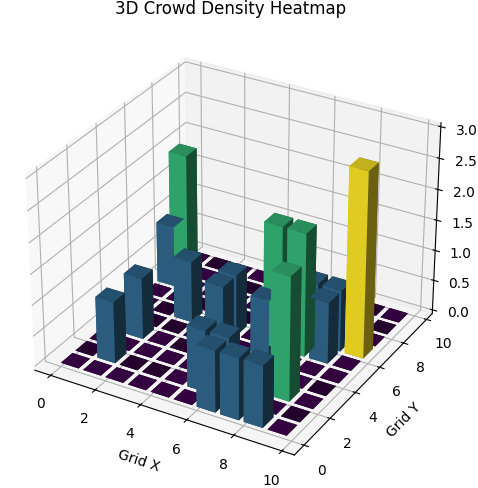
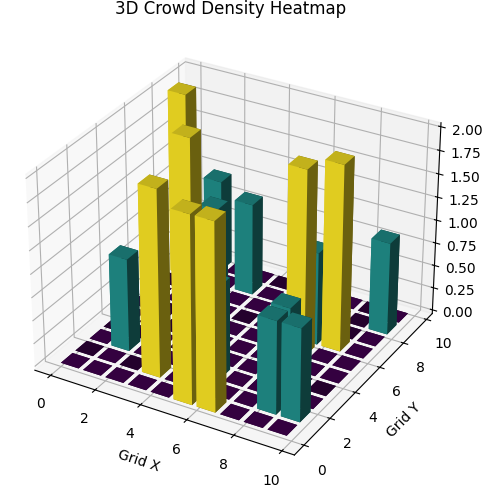
closing the project with adding segmentation on the video itself.

diff --git a/crowedAnalysis/croud_analysis.py b/crowedAnalysis/croud_analysis.py
@@ -1,98 +1,6 @@
-# from ultralytics import YOLO
-# import cv2
-# import numpy as np
-
-# # Load a pre-trained YOLOv8 model
-# model = YOLO('crowedAnalysis/yolov8n.pt')  # Use 'yolov8x.pt' for higher accuracy
-
-# video_path = r'C:\\Users\\PMLS\\Desktop\\Local Disk\\CV\\computer vision adv\\crowedAnalysis\\people.mp4'
-# cap = cv2.VideoCapture(video_path)
-
-# if not cap.isOpened():
-#     print("Error opening video stream or file")
-#     exit()
-
-# # Define grid size for heatmap
-# grid_size = 10
-# ret, first_frame = cap.read()
-# if not ret:
-#     print("Failed to read the first frame")
-#     exit()
-
-# height, width, _ = first_frame.shape
-# cell_height, cell_width = height // grid_size, width // grid_size
-
-# while cap.isOpened():
-#     ret, frame = cap.read()
-#     if not ret:
-#         break
-
-#     # Run detection
-#     results = model(frame)
-
-#     # Filter detections for 'person' class
-#     detections = results[0].boxes  # YOLO's detected objects
-#     person_detections = [box for box in detections if box.cls == 0]  # '0' is typically the 'person' class
-
-#     # Draw bounding boxes
-#     for box in person_detections:
-#         x1, y1, x2, y2 = map(int, box.xyxy[0])
-#         cv2.rectangle(frame, (x1, y1), (x2, y2), (0, 255, 0), 2)
-
-#     # Display count
-#     cv2.putText(frame, f"Count: {len(person_detections)}", (10, 50),
-#                 cv2.FONT_HERSHEY_SIMPLEX, 1, (255, 0, 0), 2, cv2.LINE_AA)
-
-#     # Generate density map
-#     density_map = np.zeros((grid_size, grid_size), dtype=int)
-#     for box in person_detections:
-#         x_center = (box.xyxy[0, 0] + box.xyxy[0, 2]) // 2
-#         y_center = (box.xyxy[0, 1] + box.xyxy[0, 3]) // 2
-#         cell_x = int(x_center // cell_width)
-#         cell_y = int(y_center // cell_height)
-#         if 0 <= cell_x < grid_size and 0 <= cell_y < grid_size:
-#             density_map[cell_y, cell_x] += 1
-
-#     # Create a color-coded heatmap
-#     heatmap = np.zeros((height, width, 3), dtype=np.uint8)
-#     for i in range(grid_size):
-#         for j in range(grid_size):
-#             density = density_map[i, j]
-#             if density > 5:  # High density
-#                 color = (0, 0, 255)  # Red
-#             elif density > 2:  # Medium density
-#                 color = (0, 255, 0)  # Green
-#             elif density > 0:  # Low density
-#                 color = (255, 0, 0)  # Blue
-#             else:  # No density
-#                 color = (0, 0, 0)  # Black
-
-#             # Draw patches for the grid cell
-#             x1, y1 = j * cell_width, i * cell_height
-#             x2, y2 = x1 + cell_width, y1 + cell_height
-#             cv2.rectangle(heatmap, (x1, y1), (x2, y2), color, -1)
-
-#     # Resize frames to equal widths for display
-#     resized_frame = cv2.resize(frame, (width // 2, height))
-#     resized_heatmap = cv2.resize(heatmap, (width // 2, height))
-
-#     # Concatenate video and heatmap
-#     combined_frame = cv2.hconcat([resized_frame, resized_heatmap])
-
-#     # Display combined frame
-#     cv2.imshow('Crowd Analysis & Heatmap', combined_frame)
-
-#     if cv2.waitKey(1) & 0xFF == ord('q'):
-#         break
-
-# cap.release()
-# cv2.destroyAllWindows()
-
 from ultralytics import YOLO
 import cv2
 import numpy as np
-import matplotlib.pyplot as plt
-from mpl_toolkits.mplot3d import Axes3D
 
 # Load a pre-trained YOLOv8 model
 model = YOLO('crowedAnalysis/yolov8n.pt')  # Use 'yolov8x.pt' for higher accuracy
@@ -114,6 +22,9 @@ if not ret:
 height, width, _ = first_frame.shape
 cell_height, cell_width = height // grid_size, width // grid_size
 
+# Define high-density threshold
+density_threshold = 3
+
 while cap.isOpened():
     ret, frame = cap.read()
     if not ret:
@@ -123,8 +34,16 @@ while cap.isOpened():
     results = model(frame)
 
     # Filter detections for 'person' class
-    detections = results[0].boxes  # YOLO's detected objects
-    person_detections = [box for box in detections if box.cls == 0]  # '0' is typically the 'person' class
+    detections = results[0].boxes
+    person_detections = [box for box in detections if box.cls == 0]
+
+    # Draw bounding boxes on the frame
+    for box in person_detections:
+        x1, y1, x2, y2 = map(int, box.xyxy[0])
+        confidence = box.conf[0]
+        cv2.rectangle(frame, (x1, y1), (x2, y2), (0, 255, 0), 2)
+        cv2.putText(frame, f'Person {confidence:.2f}', (x1, y1 - 10),
+                    cv2.FONT_HERSHEY_SIMPLEX, 0.5, (0, 255, 0), 2)
 
     # Generate density map
     density_map = np.zeros((grid_size, grid_size), dtype=int)
@@ -136,42 +55,29 @@ while cap.isOpened():
         if 0 <= cell_x < grid_size and 0 <= cell_y < grid_size:
             density_map[cell_y, cell_x] += 1
 
-    # Create a 3D heatmap
-    fig = plt.figure(figsize=(6, 6))
-    ax = fig.add_subplot(111, projection='3d')
+    # Overlay high-density areas on the video frame
+    for row in range(grid_size):
+        for col in range(grid_size):
+            density = density_map[row, col]
+            if density >= density_threshold:
+                # Calculate cell coordinates
+                start_x = col * cell_width
+                start_y = row * cell_height
+                end_x = start_x + cell_width
+                end_y = start_y + cell_height
 
-    # Prepare data for 3D plotting
-    x, y = np.meshgrid(np.arange(grid_size), np.arange(grid_size))
-    x, y = x.ravel(), y.ravel()
-    z = np.zeros_like(x)
-    dx = dy = 0.8  # Bar width
-    dz = density_map.ravel()
+                # Overlay a red transparent patch for high-density cells
+                overlay_color = (0, 0, 255)  # Red in BGR
+                alpha = 0.5  # Transparency level
+                sub_frame = frame[start_y:end_y, start_x:end_x]
+                overlay = np.full(sub_frame.shape, overlay_color, dtype=np.uint8)
+                cv2.addWeighted(overlay, alpha, sub_frame, 1 - alpha, 0, sub_frame)
 
-    # Plot the 3D bars
-    colors = plt.cm.viridis(dz / dz.max()) if dz.max() > 0 else 'gray'
-    ax.bar3d(x, y, z, dx, dy, dz, color=colors, shade=True)
-
-    ax.set_title('3D Crowd Density Heatmap')
-    ax.set_xlabel('Grid X')
-    ax.set_ylabel('Grid Y')
-    ax.set_zlabel('Density')
-
-    # Convert the plot to an image
-    plt.savefig("3d_heatmap_temp.png", bbox_inches='tight', pad_inches=0)
-    plt.close(fig)
-    heatmap_img = cv2.imread("3d_heatmap_temp.png")
-    heatmap_img = cv2.resize(heatmap_img, (width // 2, height))
-
-    # Combine video frame and heatmap into one window
-    combined_frame = np.zeros((height, width, 3), dtype=np.uint8)
-    combined_frame[:, :width // 2] = cv2.resize(frame, (width // 2, height))
-    combined_frame[:, width // 2:] = heatmap_img
-
-    cv2.imshow('Crowd Analysis (Video + 3D Heatmap)', combined_frame)
+    # Display the video frame with overlays
+    cv2.imshow('Crowd Analysis with High-Density Segmentation', frame)
 
     if cv2.waitKey(1) & 0xFF == ord('q'):
         break
 
 cap.release()
 cv2.destroyAllWindows()
-

diff --git a/crowedAnalysis/crowedAnalysis/crowed_analysis_2d.py b/crowedAnalysis/crowedAnalysis/crowed_analysis_2d.py
@@ -1,0 +1,89 @@
+from ultralytics import YOLO
+import cv2
+import numpy as np
+
+# Load a pre-trained YOLOv8 model
+model = YOLO('crowedAnalysis/yolov8n.pt')  # Use 'yolov8x.pt' for higher accuracy
+
+video_path = r'C:\\Users\\PMLS\\Desktop\\Local Disk\\CV\\computer vision adv\\crowedAnalysis\\people.mp4'
+cap = cv2.VideoCapture(video_path)
+
+if not cap.isOpened():
+    print("Error opening video stream or file")
+    exit()
+
+# Define grid size for heatmap
+grid_size = 10
+ret, first_frame = cap.read()
+if not ret:
+    print("Failed to read the first frame")
+    exit()
+
+height, width, _ = first_frame.shape
+cell_height, cell_width = height // grid_size, width // grid_size
+
+while cap.isOpened():
+    ret, frame = cap.read()
+    if not ret:
+        break
+
+    # Run detection
+    results = model(frame)
+
+    # Filter detections for 'person' class
+    detections = results[0].boxes  # YOLO's detected objects
+    person_detections = [box for box in detections if box.cls == 0]  # '0' is typically the 'person' class
+
+    # Draw bounding boxes
+    for box in person_detections:
+        x1, y1, x2, y2 = map(int, box.xyxy[0])
+        cv2.rectangle(frame, (x1, y1), (x2, y2), (0, 255, 0), 2)
+
+    # Display count
+    cv2.putText(frame, f"Count: {len(person_detections)}", (10, 50),
+                cv2.FONT_HERSHEY_SIMPLEX, 1, (255, 0, 0), 2, cv2.LINE_AA)
+
+    # Generate density map
+    density_map = np.zeros((grid_size, grid_size), dtype=int)
+    for box in person_detections:
+        x_center = (box.xyxy[0, 0] + box.xyxy[0, 2]) // 2
+        y_center = (box.xyxy[0, 1] + box.xyxy[0, 3]) // 2
+        cell_x = int(x_center // cell_width)
+        cell_y = int(y_center // cell_height)
+        if 0 <= cell_x < grid_size and 0 <= cell_y < grid_size:
+            density_map[cell_y, cell_x] += 1
+
+    # Create a color-coded heatmap
+    heatmap = np.zeros((height, width, 3), dtype=np.uint8)
+    for i in range(grid_size):
+        for j in range(grid_size):
+            density = density_map[i, j]
+            if density > 5:  # High density
+                color = (0, 0, 255)  # Red
+            elif density > 2:  # Medium density
+                color = (0, 255, 0)  # Green
+            elif density > 0:  # Low density
+                color = (255, 0, 0)  # Blue
+            else:  # No density
+                color = (0, 0, 0)  # Black
+
+            # Draw patches for the grid cell
+            x1, y1 = j * cell_width, i * cell_height
+            x2, y2 = x1 + cell_width, y1 + cell_height
+            cv2.rectangle(heatmap, (x1, y1), (x2, y2), color, -1)
+
+    # Resize frames to equal widths for display
+    resized_frame = cv2.resize(frame, (width // 2, height))
+    resized_heatmap = cv2.resize(heatmap, (width // 2, height))
+
+    # Concatenate video and heatmap
+    combined_frame = cv2.hconcat([resized_frame, resized_heatmap])
+
+    # Display combined frame
+    cv2.imshow('Crowd Analysis & Heatmap', combined_frame)
+
+    if cv2.waitKey(1) & 0xFF == ord('q'):
+        break
+
+cap.release()
+cv2.destroyAllWindows()
